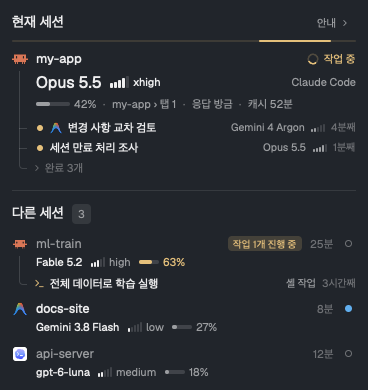
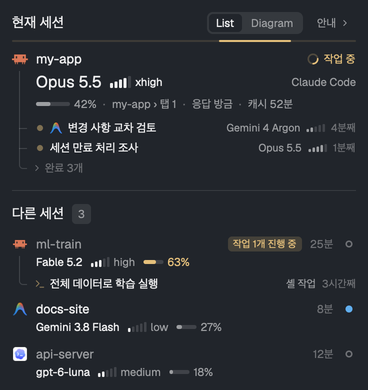
Retake the screenshots and show the sessions diagram
New previews for ai-usage and sessions (English and Korean) with the
section chevrons and the List / Diagram switch, and a diagram picture in
both READMEs. The diagram's English root box reads "Local", since "This
computer" doesn't fit its 88px; the full name is its tooltip.

diff --git a/sessions/mods/sessions/lib.js b/sessions/mods/sessions/lib.js
@@ -45,7 +45,8 @@ export const TEXT = {
     all: "All sessions",
     list: "List",
     diagram: "Diagram",
-    thisComputer: "This computer",
+    thisComputer: "Local", // the diagram's 88px box: "This computer" doesn't fit
+    thisComputerTip: "This computer",
     sessionsN: (n) => (n === 1 ? "1 session" : `${n} sessions`),
     noneHere: "No agent sessions in this space",
     noOthers: "No other sessions",
@@ -95,6 +96,7 @@ export const TEXT = {
     list: "List",
     diagram: "Diagram",
     thisComputer: "이 컴퓨터",
+    thisComputerTip: "이 컴퓨터",
     sessionsN: (n) => `세션 ${n}개`,
     noneHere: "이 스페이스에는 에이전트 세션이 없어요",
     noOthers: "다른 세션이 없어요",

diff --git a/sessions/mods/sessions/main.js b/sessions/mods/sessions/main.js
@@ -439,7 +439,7 @@ export default class Sessions extends View {
     const nodes = boxes.map((b) => {
       const { machine, a, n, fold, owner, more } = b.x;
       if (b.x.sessions) return frame(b, `d-machine-${machine}`, t.input ?? t.border).bg(t.raised)
-        .tooltip(machine || tx.thisComputer)
+        .tooltip(machine || tx.thisComputerTip)
         .child(h_flex().gap(5).items_center()
           .child(svg(`mods/workspace-chrome/${machine ? "server" : "monitor"}.svg`).size(12).flex_none().text_color(t.muted))
           .child(div().flex_1().min_w(0).truncate().text_size(12).font_medium().child(machine || tx.thisComputer)))

diff --git a/sessions/RECIPE.md b/sessions/RECIPE.md
@@ -14,7 +14,7 @@ A panel block that shows, for every coding-agent session, which model it runs an
 2. **Other sessions** with a count. Each session takes two lines: name, relative time and a status dot; then model, effort meter and context meter, with the space name on the right when it differs from the folder name. Sessions awaiting your input come first, followed by working, done, and idle, newest first within each group.
 3. **Sub-agent tree** under each session: a 1px guide rail from the parent's icon, one line per sub-agent (status dot, name, model, effort meter, elapsed time). Running ones are bright; finished ones fold into "N done".
 4. **Background work.** Commands that a Claude Code session left running in the background (such as a training script or a monitor) appear on their own lines in the session's tree with their elapsed time. The session also shows an "N tasks running" badge ("N scheduled" when only scheduled prompts remain) even when the agent itself is idle. These sessions sort above idle ones.
-5. **Diagram** (in place of 1–4, under the title "All sessions" with a count). Columns left to right: a 88px "This computer" box (monitor icon, "N sessions"; a remote machine gets its own box with a server icon and its name), then the sessions (current first, then the list's order), then what each started, its sub-agents and background tasks, and their own children further right. Boxes are 38px tall with two lines (name and status; model with effort meter, or kind and elapsed time); the other columns share the remaining width. Each box is joined to its parent by a 1px curve, drawn in `working` with a pulsing dot where it arrives when the child is running. The current session's box has a 1.5px `accent` border. Finished sub-agents fold into an "N done" pill, as in the list. The context meter shows only when a box is at least 150px wide.
+5. **Diagram** (in place of 1–4, under the title "All sessions" with a count). Columns left to right: a 88px box for this computer ("Local", Korean "이 컴퓨터", with a monitor icon and "N sessions"; "This computer" fits only as its tooltip; a remote machine gets its own box with a server icon and its name), then the sessions (current first, then the list's order), then what each started, its sub-agents and background tasks, and their own children further right. Boxes are 38px tall with two lines (name and status; model with effort meter, or kind and elapsed time); the other columns share the remaining width. Each box is joined to its parent by a 1px curve, drawn in `working` with a pulsing dot where it arrives when the child is running. The current session's box has a 1.5px `accent` border. Finished sub-agents fold into an "N done" pill, as in the list. The context meter shows only when a box is at least 150px wide.
 
 ## How it behaves
 
@@ -49,4 +49,4 @@ A panel block that shows, for every coding-agent session, which model it runs an
 - `herdr-app check mods/sessions` passes and `node mods/sessions/lib.test.mjs` prints `lib ok`.
 - With over9k installed and a Claude Code session running, the current session shows its model and effort as Claude Code reports them.
 - Starting `hc run -- agy` from that session shows an Antigravity line in its sub-agent tree within about 10 seconds.
-- With Diagram chosen, a lone session shows as a "This computer" box joined to that session's box; `hc run --bg -- sleep 60` from that session adds a box to its right on a `working` curve.
+- With Diagram chosen, a lone session shows as a "Local" box joined to that session's box; `hc run --bg -- sleep 60` from that session adds a box to its right on a `working` curve.

diff --git a/README.md b/README.md
@@ -8,6 +8,10 @@ Mods for the Herdr desktop app that add **AI plan usage** and **each session's m
 
 ![The whole panel](docs/panel.png)
 
+Switch the sessions list to **Diagram** to see the same sessions as a map, with what each one started:
+
+![The sessions diagram](docs/diagram.png)
+
 ## Mods
 
 | Mod | What it does |
